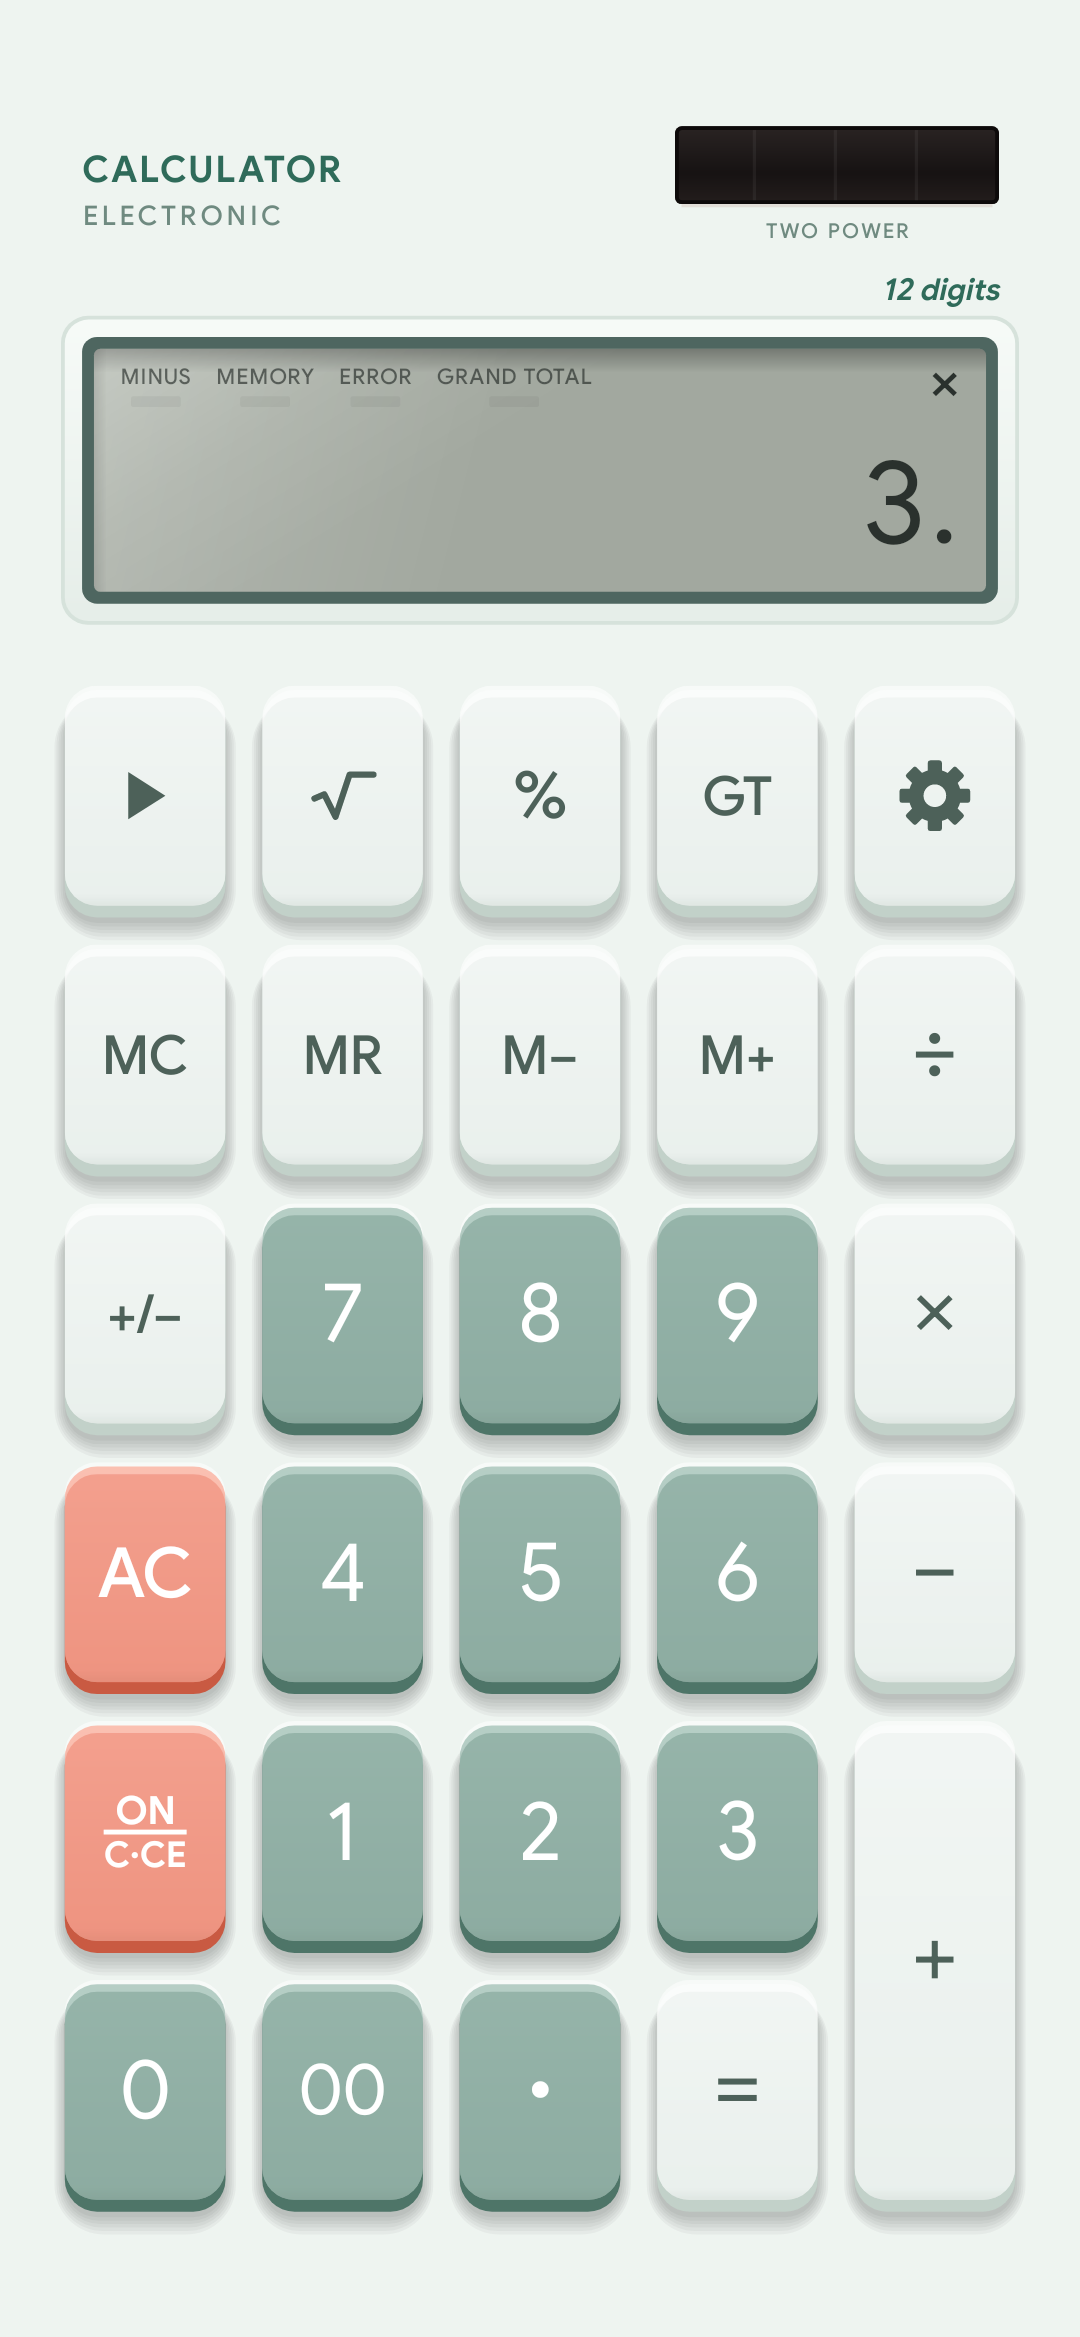
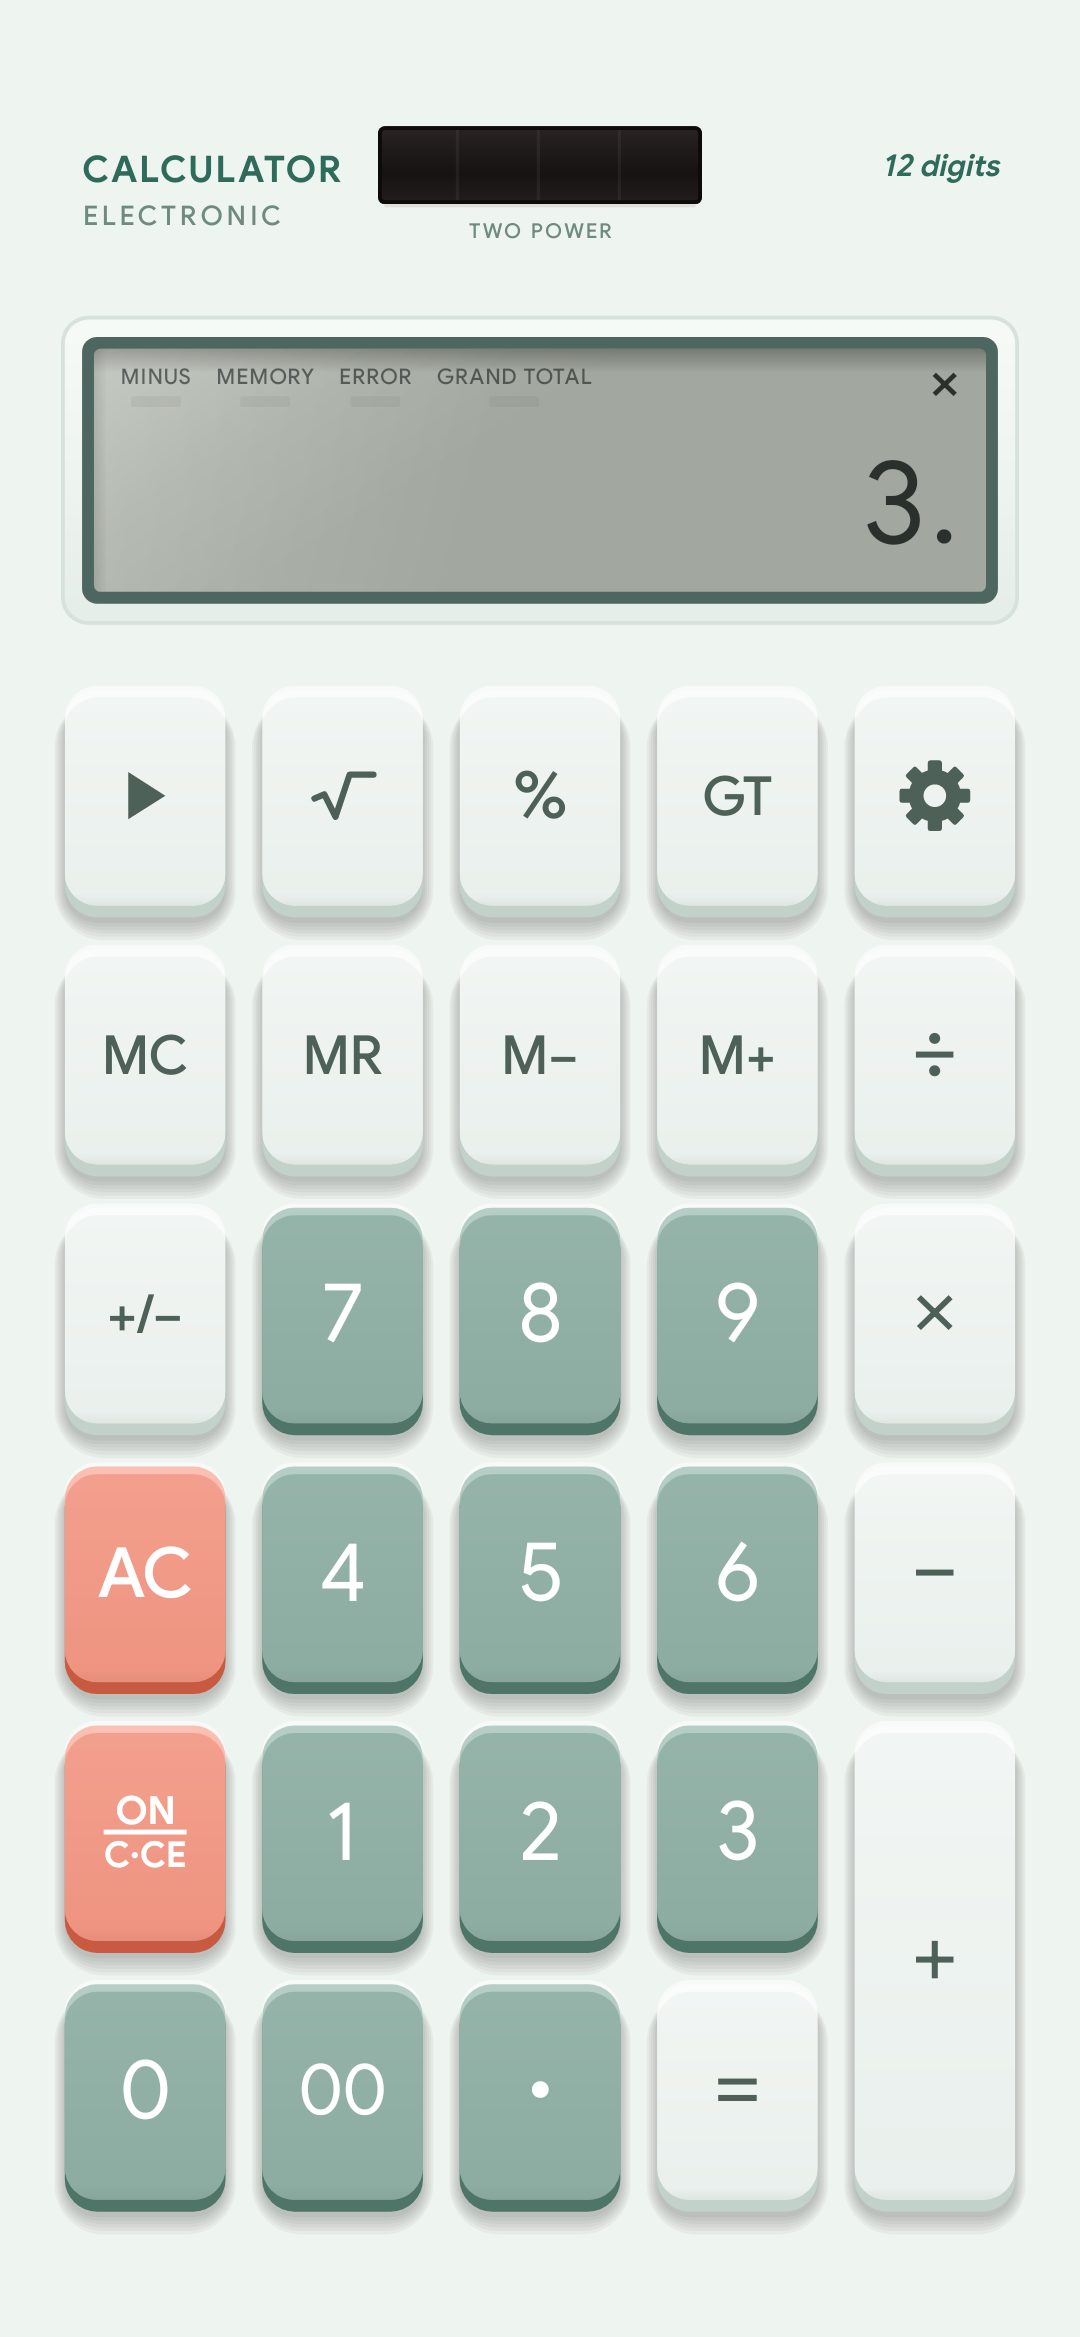
Web version: header layout as on the real calculator
Same change as main (a6193a8): solar panel centred, '12 digits' beside it.

Claude-Session: https://claude.ai/code/session_01HMrFGJVtAWFkopazrQZbRp

Changed region(s): [[0.3361, 0.0312, 0.9472, 0.1249]]

diff --git a/index.html b/index.html
@@ -356,7 +356,7 @@ function drawHead() {
   setText(700, 3.4 * u, hexA(th.label), .06); drawText("CALCULATOR", x, headTop + 5.2 * u);
   setText(500, 2.5 * u, hexA(th.sub), .14); drawText("ELECTRONIC", x, headTop + 9.1 * u);
 
-  const sr = contentR - 1.5 * u, sl = sr - 30 * u, st = headTop, sb = headTop + 7.2 * u;
+  const sl = (contentL + contentR) / 2 - 15 * u, sr = sl + 30 * u, st = headTop, sb = headTop + 7.2 * u;   // solar panel centred
   fill.shader = grad(0, st, 0, sb, [argb(0xFF2A2423), argb(0xFF171313), argb(0xFF241E1D)], [0, .6, 1]);
   fillRR(sl, st, sr, sb, .6 * u);
   fill.shader = null;
@@ -370,7 +370,7 @@ function drawHead() {
   setText(500, 1.9 * u, hexA(th.sub), .12); text.align = "center";
   drawText("TWO POWER", (sl + sr) / 2, sb + 3.1 * u);
   setText(700, 2.8 * u, hexA(th.label), 0); text.skew = -.22; text.align = "right";
-  drawText("12 digits", contentR - 1.5 * u, headTop + 16.1 * u);
+  drawText("12 digits", contentR - 1.5 * u, headTop + 4.6 * u);   // right of the panel, same row
 }
 
 function drawLcd() {
